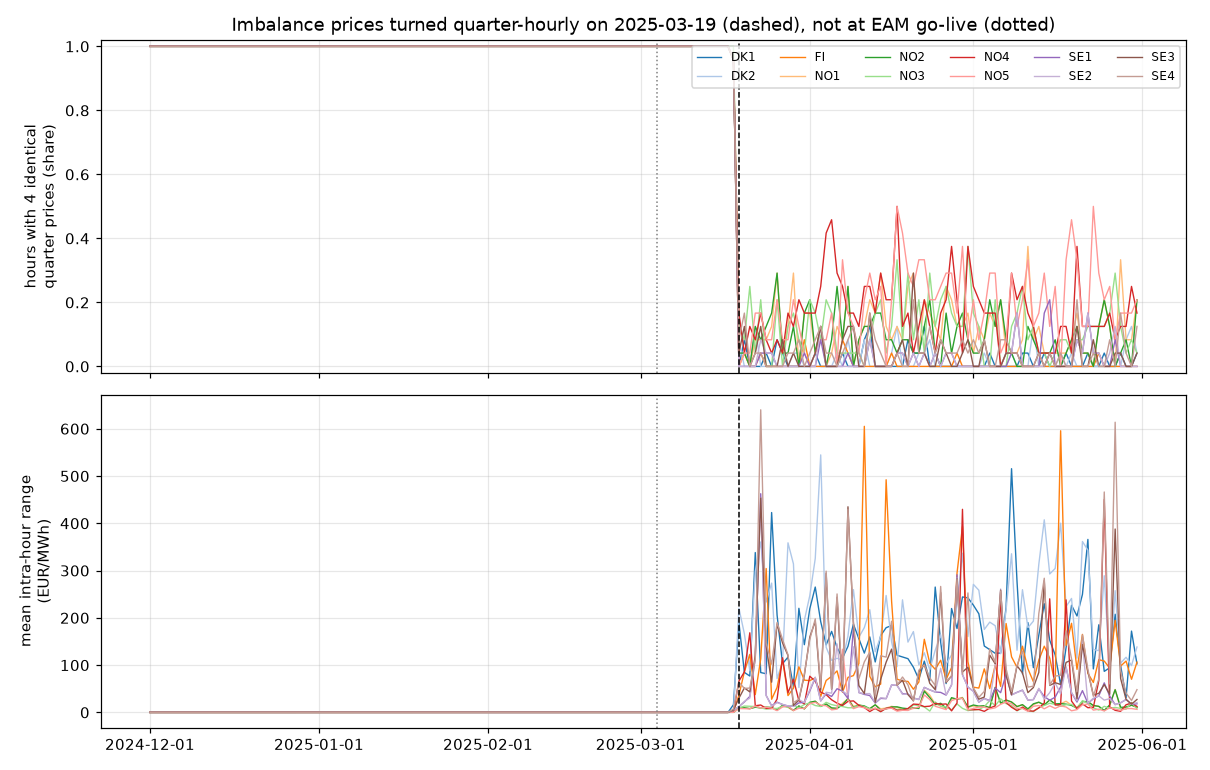
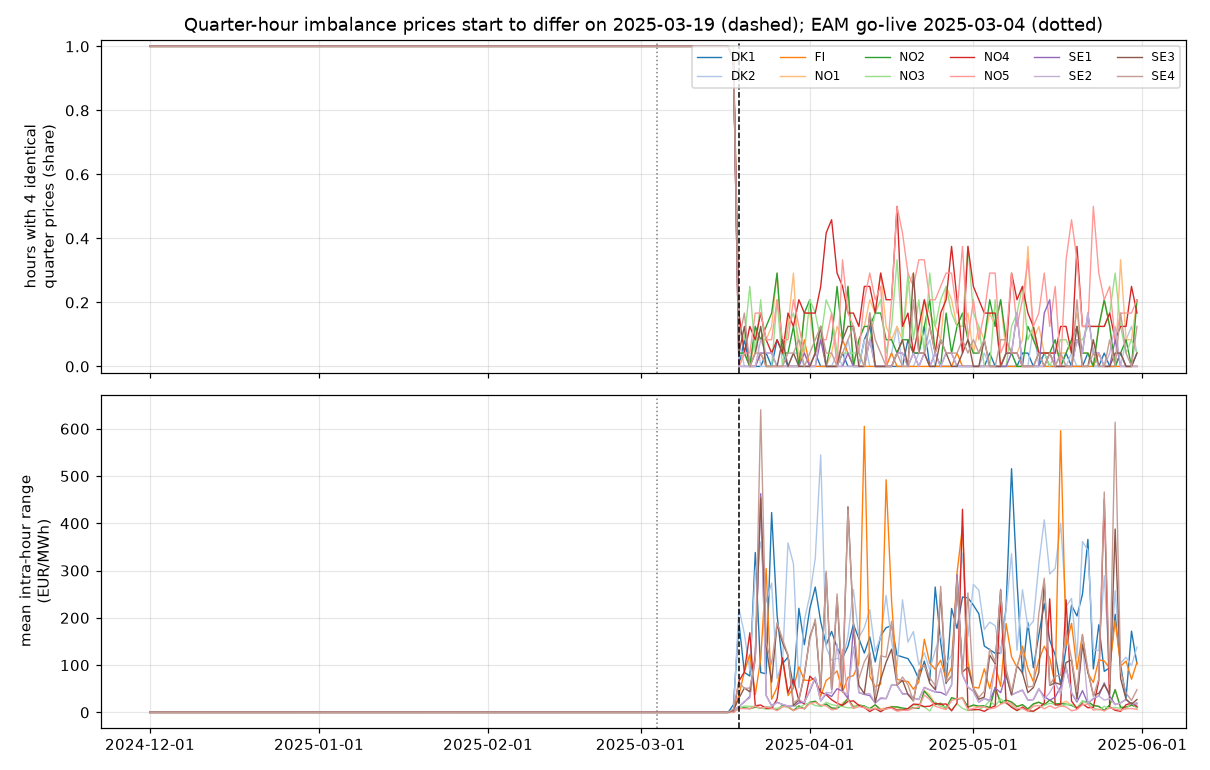
mfrr_transition: verify May 2023-Nov 2024, add summary chart, neutral wording.
- check_before_window.py: 0 of 161,016 zone-hours (2023-05-21T22:00Z to 2024-12-01)
  have differing quarter prices; README evidence table now covers May 2023-May 2025.
- summary_chart.py / summary.png: one-line chart, per-UTC-day steps, larger text;
  README explains the 18 March UTC-day step (switch at 23:00Z).
- README: developer framing, both March milestones cited to primary sources (Statnett,
  eSett), eSett's 2023 note that quarter prices stay equal, corrected counts and caveats.
- analysis.py: neutral chart title; mfrr_transition.png regenerated.

Changed region(s): [[0.1529, 0.0, 0.9174, 0.0623]]

diff --git a/examples/mfrr_transition/summary_chart.py b/examples/mfrr_transition/summary_chart.py
@@ -1,0 +1,110 @@
+"""One-line summary chart of the 2025-03-19 switch, sized for sharing.
+
+Reads ``cache.json`` written by ``analysis.py`` (run that first) and plots, per UTC
+day, the share of hours, across all 12 zones, whose four quarter-hour imbalance prices
+are identical. Each day's value is drawn as a step covering that UTC day. The switch
+came at 2025-03-19 00:00 CET, which is 2025-03-18T23:00Z, so the UTC day 18 March
+already contains one changed hour in 11 of the 12 zones and shows 96 % instead of 100 %.
+Writes ``summary.png`` next to this file.
+
+    uv run --with matplotlib python examples/mfrr_transition/summary_chart.py
+"""
+
+import json
+from collections import defaultdict
+from datetime import UTC, date, datetime, timedelta
+from pathlib import Path
+
+import matplotlib.dates as mdates
+import matplotlib.pyplot as plt
+
+HERE = Path(__file__).parent
+CACHE = HERE / "cache.json"
+PNG = HERE / "summary.png"
+EAM_GO_LIVE = datetime(2025, 3, 4, tzinfo=UTC)
+QUARTER_PRICING = datetime(2025, 3, 18, 23, tzinfo=UTC)
+
+
+def daily_uniform_share() -> tuple[list[date], list[float]]:
+    quarters: dict[tuple[str, datetime], list[float | None]] = defaultdict(list)
+    for start, zone, price in json.loads(CACHE.read_text(encoding="utf-8")):
+        stamp = datetime.fromisoformat(start)
+        quarters[(zone, stamp.replace(minute=0))].append(price)
+    counts: dict[date, list[int]] = defaultdict(lambda: [0, 0])
+    for (_, hour), prices in quarters.items():
+        if len(prices) == 4 and None not in prices:
+            counts[hour.date()][0] += len(set(prices)) == 1
+            counts[hour.date()][1] += 1
+    days = sorted(counts)
+    return days, [100 * counts[d][0] / counts[d][1] for d in days]
+
+
+def main() -> None:
+    if not CACHE.exists():
+        raise SystemExit(f"{CACHE.name} not found: run analysis.py first")
+    days, share = daily_uniform_share()
+    # Each value covers its whole UTC day, so the drop is drawn at 19 March 00:00 UTC.
+    edges = [datetime(d.year, d.month, d.day, tzinfo=UTC) for d in days]
+    edges.append(edges[-1] + timedelta(days=1))
+    fig, ax = plt.subplots(figsize=(12, 6.27), dpi=100)
+    ax.stairs(share, mdates.date2num(edges), color="#0f5f8a", linewidth=3, baseline=None, zorder=3)
+    ax.axvline(EAM_GO_LIVE, color="#6b7a86", linestyle=":", linewidth=2.2)
+    ax.axvline(QUARTER_PRICING, color="#c2410c", linestyle="--", linewidth=2.2)
+    ax.annotate(
+        "4 Mar\nmFRR EAM\ngo-live",
+        (EAM_GO_LIVE, 50),
+        xytext=(-12, 0),
+        textcoords="offset points",
+        ha="right",
+        va="center",
+        color="#4b5863",
+        fontsize=19,
+    )
+    ax.annotate(
+        "19 Mar\n15-minute\nimbalance prices",
+        (QUARTER_PRICING, 50),
+        xytext=(12, 0),
+        textcoords="offset points",
+        ha="left",
+        va="center",
+        color="#c2410c",
+        fontsize=19,
+    )
+    ax.set_ylim(0, 105)
+    ax.set_ylabel("% of hours", fontsize=16)
+    fig.suptitle(
+        "Hours where all four quarter-hour imbalance prices match",
+        x=0.01,
+        ha="left",
+        fontsize=22,
+        fontweight="bold",
+    )
+    ax.set_title(
+        "12 Nordic bidding zones, eSett open data, per UTC day",
+        loc="left",
+        fontsize=16,
+        color="#4b5863",
+    )
+    ax.xaxis_date()
+    ax.xaxis.set_major_locator(mdates.MonthLocator())
+    ax.xaxis.set_major_formatter(mdates.DateFormatter("%b %Y"))
+    ax.tick_params(labelsize=15)
+    ax.set_axisbelow(True)
+    ax.grid(axis="y", color="#d5dde2")
+    for side in ("top", "right"):
+        ax.spines[side].set_visible(False)
+    fig.text(
+        0.99,
+        0.01,
+        "github.com/Razikale365/nordic-balancing",
+        ha="right",
+        color="#6b7a86",
+        fontsize=13,
+    )
+    fig.tight_layout(rect=(0, 0.03, 1, 1))
+    fig.savefig(PNG)
+    print(f"wrote {PNG.name}")
+
+
+if __name__ == "__main__":
+    main()

diff --git a/examples/mfrr_transition/check_before_window.py b/examples/mfrr_transition/check_before_window.py
@@ -1,0 +1,34 @@
+"""Check the period before analysis.py's window: 2023-05-21T22:00Z to 2024-12-01.
+
+Fetches eSett imbalance prices for all 12 zones (keyless, about 20 chunked requests)
+and counts the hours whose four quarter-hour prices differ.
+
+    uv run python examples/mfrr_transition/check_before_window.py
+"""
+
+from collections import defaultdict
+from datetime import UTC, datetime
+
+from nordic_balancing import BiddingZone, ESettClient
+
+START = datetime(2023, 5, 21, 22, tzinfo=UTC)  # first 15-minute settlement period
+END = datetime(2024, 12, 1, tzinfo=UTC)  # where analysis.py starts
+
+
+def main() -> None:
+    with ESettClient() as client:
+        prices = client.imbalance_prices(START, END, list(BiddingZone))
+    hours: dict[tuple[BiddingZone, datetime], list[float | None]] = defaultdict(list)
+    for price in prices:
+        hours[(price.zone, price.start.replace(minute=0))].append(price.imbalance_price_eur)
+    complete = {key: quarters for key, quarters in hours.items() if None not in quarters}
+    complete = {key: quarters for key, quarters in complete.items() if len(quarters) == 4}
+    differing = sorted(key for key, quarters in complete.items() if len(set(quarters)) > 1)
+    print(f"{len(prices)} records, {len(hours)} zone-hours, {len(complete)} complete")
+    print(f"zone-hours with differing quarter prices: {len(differing)}")
+    for zone, hour in differing[:10]:
+        print(f"  {zone.value} {hour.isoformat()}")
+
+
+if __name__ == "__main__":
+    main()

diff --git a/examples/mfrr_transition/analysis.py b/examples/mfrr_transition/analysis.py
@@ -104,7 +104,8 @@ def plot(hourly: dict[tuple[str, datetime], tuple[bool, float]], zones: list[str
         axis.grid(alpha=0.3)
     ax_share.set_ylim(-0.02, 1.02)
     ax_share.set_title(
-        "Imbalance prices turned quarter-hourly on 2025-03-19 (dashed), not at EAM go-live (dotted)"
+        "Quarter-hour imbalance prices start to differ on 2025-03-19 (dashed); "
+        "EAM go-live 2025-03-04 (dotted)"
     )
     ax_share.legend(ncol=6, fontsize=8, loc="upper right")
     ax_range.xaxis.set_major_formatter(mdates.DateFormatter("%Y-%m-%d"))

diff --git a/examples/mfrr_transition/README.md b/examples/mfrr_transition/README.md
@@ -1,68 +1,132 @@
 # When did Nordic imbalance prices become quarter-hourly?
 
-Nordic imbalance settlement moved to 15-minute periods on 2023-05-22. A price
-published per quarter-hour need not vary within the hour, though. So when did
+I ran into this question while building nordic-balancing. The library puts every
+series on 15-minute UTC intervals and keeps the resolution each source published at,
+so it has to know when a series changed resolution. For Nordic imbalance prices, the
+answer depends on whether you mean how often a price is published or how often it can
+change.
+
+eSett switched the Nordic imbalance settlement period to 15 minutes on 22 May 2023
+([eSett, 23 May 2023](https://www.esett.com/news/the-nordic-electricity-market-has-switched-to-15-minute-imbalance-settlement-period/)).
+Since then its open data has one imbalance price per quarter-hour for all 12 bidding
+zones. The same announcement says the imbalance price "will be same for each
+quarter-hour within an hour until 15 min prices are available and used." So when did
 the four quarter prices of an hour start to differ?
 
-**Answer: 2025-03-19 00:00 CET (2025-03-18T23:00Z), in all 12 bidding zones.**
-On that date mFRR energy pricing and imbalance pricing moved to 15 minutes,
-together with 15-minute intraday cross-border trading
-([Fingrid announcement](https://fingrid.fi/en/news/news/2025/go-live-of-15-min-intraday-cross-border-trading-in-the-nordics-on-1803-for-delivery-on-1903)).
-The switch did **not** come at the mFRR energy activation market (EAM) go-live on
-2025-03-04, which is the date often quoted. Every day from 1 to 17 March 2025 still had
-identical quarter prices in 100 % of hours.
+**Answer: at 2025-03-19 00:00 CET (2025-03-18T23:00Z).** Before that hour, no zone ever
+had differing quarter prices. From then on, they differ in most hours in every zone.
 
-![mfrr_transition.png](mfrr_transition.png)
+March 2025 had two separate 15-minute milestones, two weeks apart:
+
+- **4 March:** the mFRR energy activation market (EAM) went live, "going from 60 minutes
+  manual balancing to 15 minutes automated balancing"
+  ([Statnett, on behalf of the four Nordic TSOs](https://statnett.no/en/for-stakeholders-in-the-power-industry/news-for-the-power-industry/confirmation-of-mfrr-eam-go-live-march-4th-2025)).
+- **19 March:** from delivery day 19.03.2025, imbalance prices are calculated separately for
+  each 15-minute imbalance settlement period
+  ([eSett, 27 February 2025](https://www.esett.com/news/upcoming-changes-in-the-15-min-project/)).
+
+The price data follows the second date.
+
+![Share of hours where all four quarter-hour imbalance prices match, per UTC day, December 2024 to May 2025](summary.png)
+
+The chart aggregates by UTC day. The switch came at 00:00 CET on 19 March, which is
+23:00 UTC on 18 March. So the UTC day 18 March already contains one changed hour in 11
+zones and shows 96 % instead of 100 %. That small step just before the dashed line is
+the switch itself, not an earlier change.
+
+Per zone, with the intra-hour price range (`analysis.py`):
+
+![Per-zone share of uniform hours and mean intra-hour price range, December 2024 to May 2025](mfrr_transition.png)
+
+## Evidence
+
+Two scripts together cover every quarter-hour from the first 15-minute settlement period
+to the end of May 2025, in all 12 zones:
+
+| Period (UTC) | Script | Records | Zone-hours | Zone-hours with differing quarters |
+|---|---|---:|---:|---:|
+| 2023-05-21T22:00 to 2024-12-01 | `check_before_window.py` | 644,064 | 161,016 | 0 |
+| 2024-12-01 to 2025-03-18T23:00 | `analysis.py` | 124,368 | 31,092 | 0 |
+| 2025-03-18T23:00 to 2025-06-01 | `analysis.py` | 85,296 | 21,324 | 19,813 |
+
+Every zone-hour in all three rows had four published, non-null prices. The first hour with
+differing quarters is 2025-03-18T23:00Z in 11 zones. In NO3 that hour happened to have
+four equal prices, as 11.8 % of NO3 hours still do after the switch; its first differing
+hour is 2025-03-19T00:00Z.
+
+After the switch, per zone (`analysis.py`, 2025-03-18T23:00Z to 2025-06-01):
+
+| zone | hours with uniform quarters | mean intra-hour range, EUR/MWh |
+|------|-----:|-------:|
+| DK1  |  1.6 % | 164.16 |
+| DK2  |  1.9 % | 203.77 |
+| FI   |  0.6 % | 119.56 |
+| NO1  | 11.8 % |  15.80 |
+| NO2  |  9.1 % |  15.93 |
+| NO3  | 11.8 % |  11.83 |
+| NO4  | 16.8 % |  42.82 |
+| NO5  | 19.0 % |  12.76 |
+| SE1  |  2.3 % |  49.02 |
+| SE2  |  2.0 % |  55.55 |
+| SE3  |  3.4 % | 104.56 |
+| SE4  |  4.7 % | 129.96 |
+
+Before the switch, every zone had 100 % uniform hours and a range of 0. After it, quarter
+prices within an hour often differ by tens to hundreds of EUR/MWh. The ranges are largest
+in DK2, DK1, SE4, FI and SE3, and smallest in NO1, NO2, NO3 and NO5.
+
+## Why it matters
+
+Publication resolution and information content are different things. From May 2023 to
+18 March 2025, eSett's series is published per quarter-hour but carries one price per
+hour. A model trained across 19 March 2025, a backtest of quarter-hour flexibility, or a
+measure of intra-hour spreads would otherwise treat repeated hourly prices as
+quarter-hourly ones, and the earlier period would look flat by construction.
+
+nordic-balancing keeps the publication resolution in `ImbalancePrice.resolution`, which
+says 15 minutes for both periods. The change in information content is recorded
+separately, as a dated market change: `nordic_balancing.changes_between()` returns it for
+any window that spans 2025-03-18T23:00Z.
 
 ## Method
 
-`analysis.py` uses only the public `nordic_balancing` API. It fetches eSett imbalance
-prices (`ESettClient`, keyless, all 12 zones) for 2024-12-01 to 2025-06-01 UTC in six
-chunked requests and caches them as `cache.json`. For each zone and hour it checks
-whether all four quarter prices are identical, and computes the intra-hour range
-(max − min). It then aggregates per UTC day and plots both against the EAM go-live
-(dotted) and the 15-minute pricing switch (dashed).
+All three scripts use only the public `nordic_balancing` API and keyless eSett data
+(`ESettClient`, `EXP14/Prices`).
 
-## Results (run of 2026-10-09)
-
-| zone | uniform quarters, before | after | mean intra-hour range before, EUR/MWh | after |
-|------|-----:|-----:|-----:|-------:|
-| DK1  | 100.0 % |  1.6 % | 0.00 | 164.16 |
-| DK2  | 100.0 % |  1.9 % | 0.00 | 203.77 |
-| FI   | 100.0 % |  0.6 % | 0.00 | 119.56 |
-| NO1  | 100.0 % | 11.8 % | 0.00 |  15.80 |
-| NO2  | 100.0 % |  9.1 % | 0.00 |  15.93 |
-| NO3  | 100.0 % | 11.8 % | 0.00 |  11.83 |
-| NO4  | 100.0 % | 16.8 % | 0.00 |  42.82 |
-| NO5  | 100.0 % | 19.0 % | 0.00 |  12.76 |
-| SE1  | 100.0 % |  2.3 % | 0.00 |  49.02 |
-| SE2  | 100.0 % |  2.0 % | 0.00 |  55.55 |
-| SE3  | 100.0 % |  3.4 % | 0.00 | 104.56 |
-| SE4  | 100.0 % |  4.7 % | 0.00 | 129.96 |
-
-The first non-uniform hour is 2025-03-18T23:00Z in 11 zones, and the next hour in NO3.
-After the switch, quarter prices within an hour routinely differ by tens to hundreds of
-EUR/MWh, most in DK and FI and least in the hydro-dominated NO zones.
-
-Why it matters: data from before 2025-03-19 that is labelled "15-minute" holds only hourly
-information. A model trained across that date, or a backtest of 15-minute flexibility, would
-otherwise mistake repeated hourly prices for quarter-hourly ones.
-`nordic_balancing.changes_between()` returns this switch as a dated market change.
+- `analysis.py` fetches 2024-12-01 to 2025-06-01 UTC for all 12 zones (six requests of up
+  to 31 days) and caches the result in `cache.json`. For each zone and hour it checks
+  whether all four quarter prices are identical and computes the intra-hour range
+  (max − min). It prints the table above, using the 2025-03-18T23:00Z switch as the
+  before/after boundary, and plots `mfrr_transition.png` per UTC day.
+- `summary_chart.py` reads `cache.json` and plots `summary.png`: the share of uniform hours
+  across all zones, per UTC day, drawn as one step per day.
+- `check_before_window.py` fetches 2023-05-21T22:00Z to 2024-12-01 live and counts the
+  zone-hours whose quarter prices differ.
 
 ## Reproduce
 
-```
+```bash
 uv run --with matplotlib python examples/mfrr_transition/analysis.py
+uv run --with matplotlib python examples/mfrr_transition/summary_chart.py
+uv run python examples/mfrr_transition/check_before_window.py
 ```
 
-The first run fetches from eSett and writes `cache.json` (git-ignored). Later runs reuse
-the cache. Delete it to refetch.
+The first run of `analysis.py` fetches from eSett and writes `cache.json` (git-ignored).
+Later runs, and `summary_chart.py`, reuse the cache; delete it to refetch.
+`check_before_window.py` always fetches and takes about a minute. The numbers above are
+from runs on 2026-10-09.
 
 ## Caveats
 
-- Single source: eSett `EXP14/Prices`. The cross-provider check against the TSO feeds is a
+- Single source: eSett `EXP14/Prices`. The cross-check against the TSO feeds is a
   separate piece of work.
-- A six-month window around the switch, not a long-run sample.
-- `ImbalancePrice.resolution` records the publication cadence (15 min since 2023-05-22),
-  not the information content. Pre-switch records say `15 min` even though all four
-  quarters carry the same value. That is a known library limitation.
+- The uniformity check covers May 2023 to May 2025. The after-switch statistics cover
+  only 2025-03-19 to 2025-05-31, so they describe the first ten weeks, not a long-run
+  average.
+- The May 2023 switch was phased by country: eSett's announcement lists Denmark and
+  Finland first, with Sweden and Norway to follow later. The checks here are about the
+  published imbalance prices, which eSett's data contains per quarter-hour for all 12
+  zones from 2023-05-21T22:00Z.
+- `ImbalancePrice.resolution` records the publication cadence (15 minutes since
+  2023-05-22), not the information content. Before the switch it says 15 minutes even
+  though all four quarters carry the same value.
